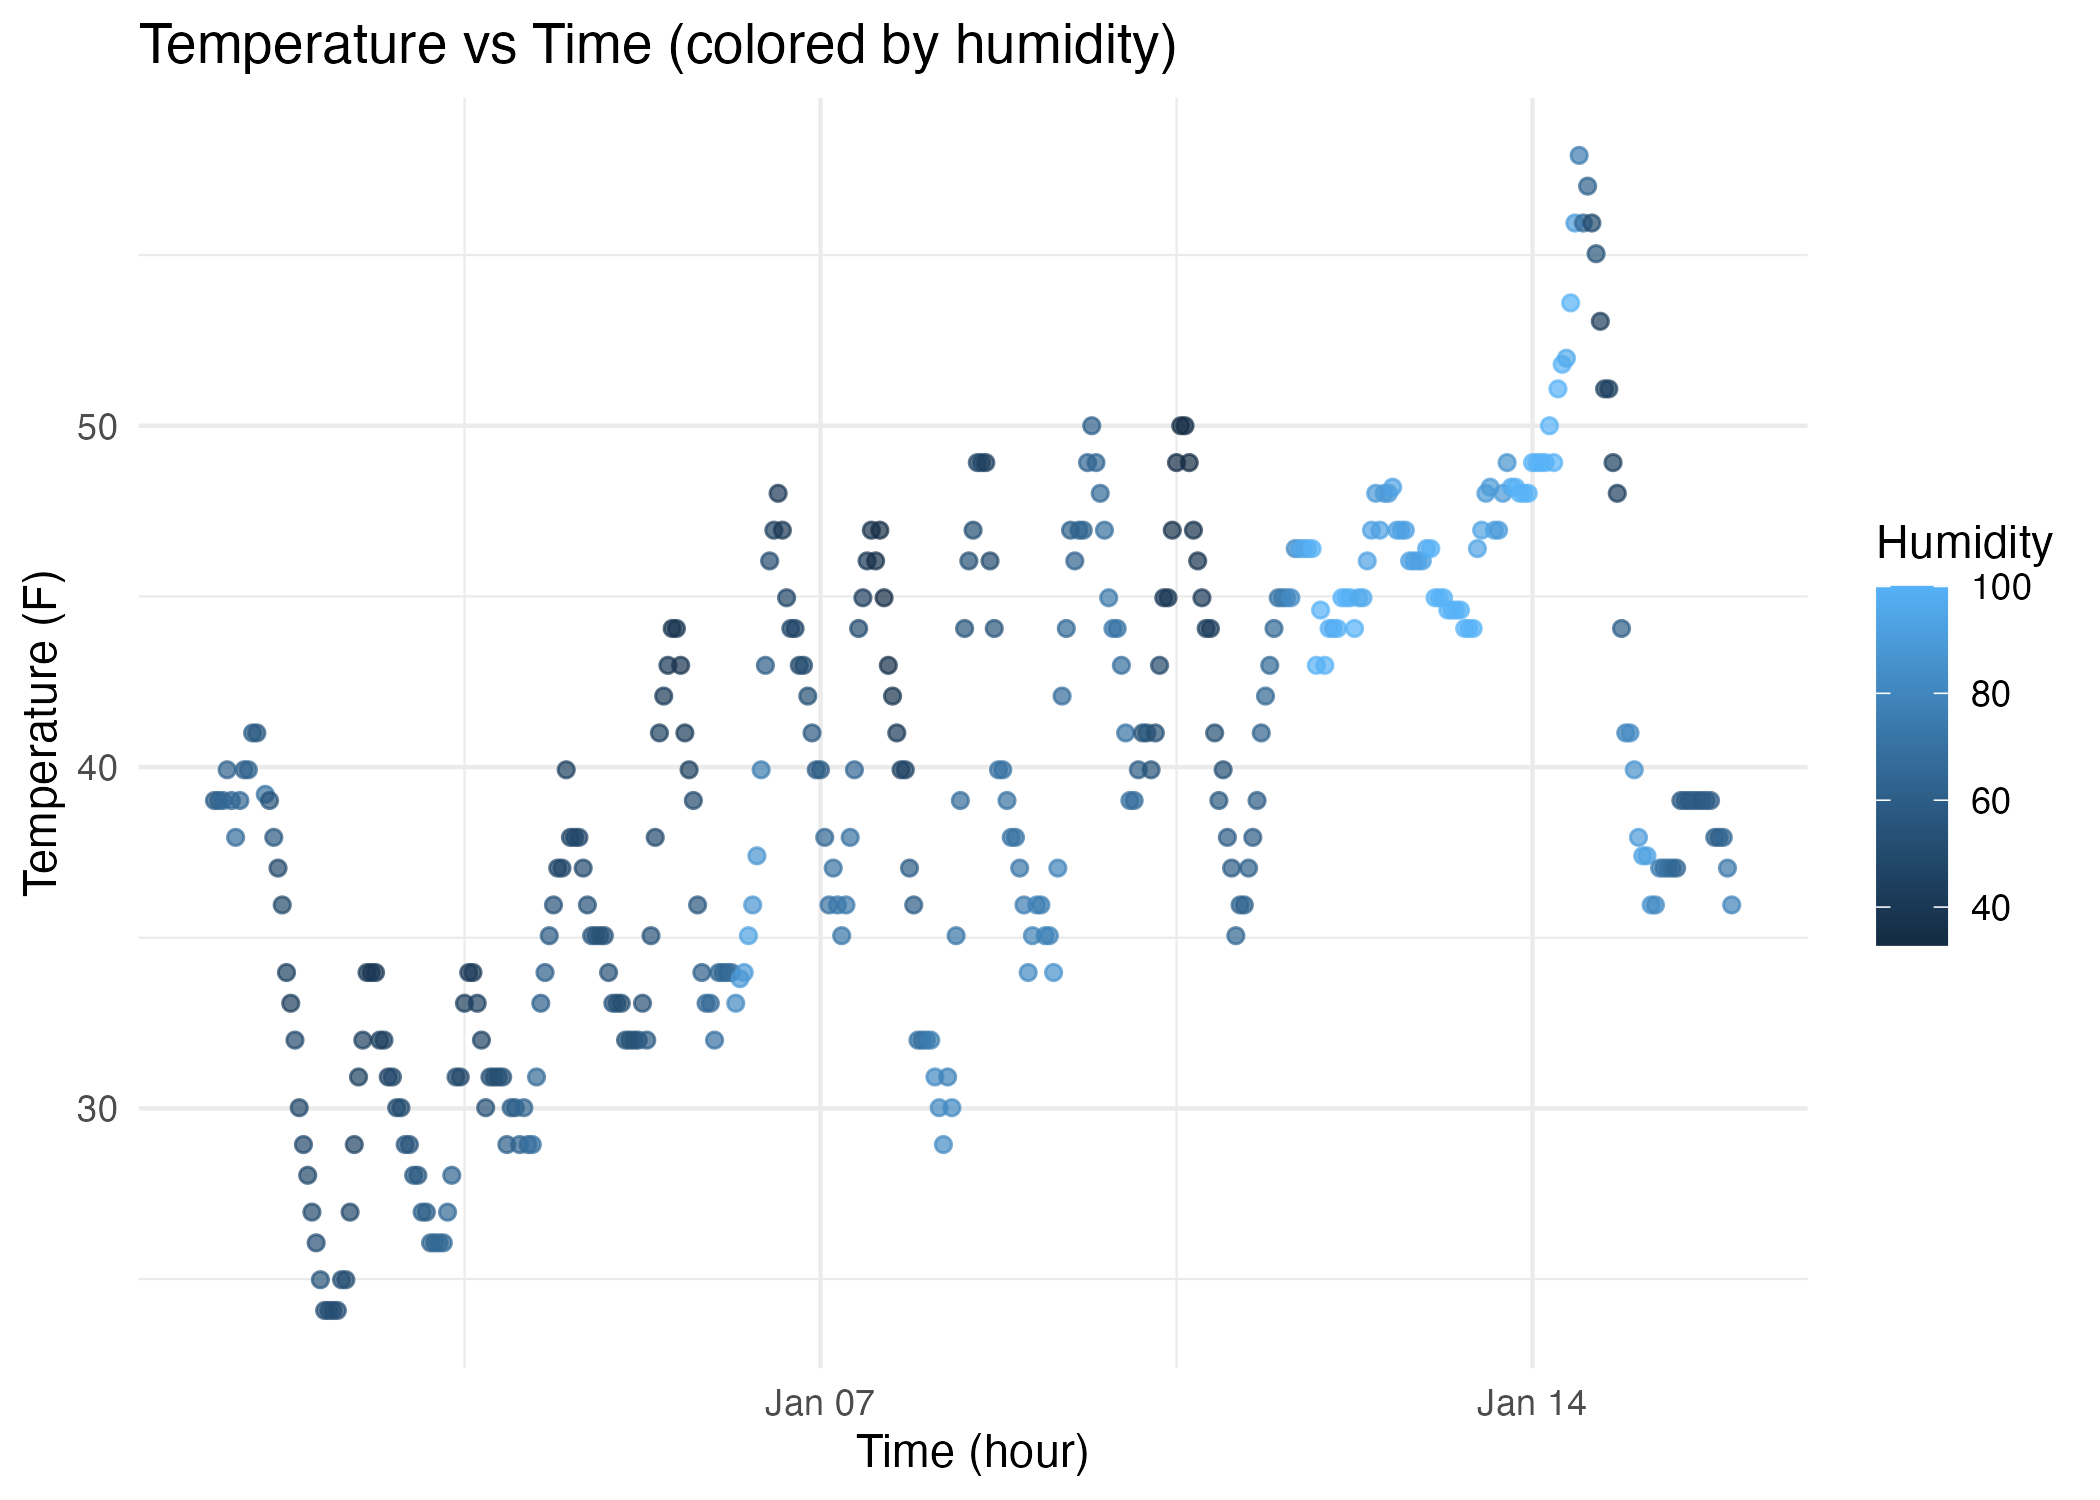
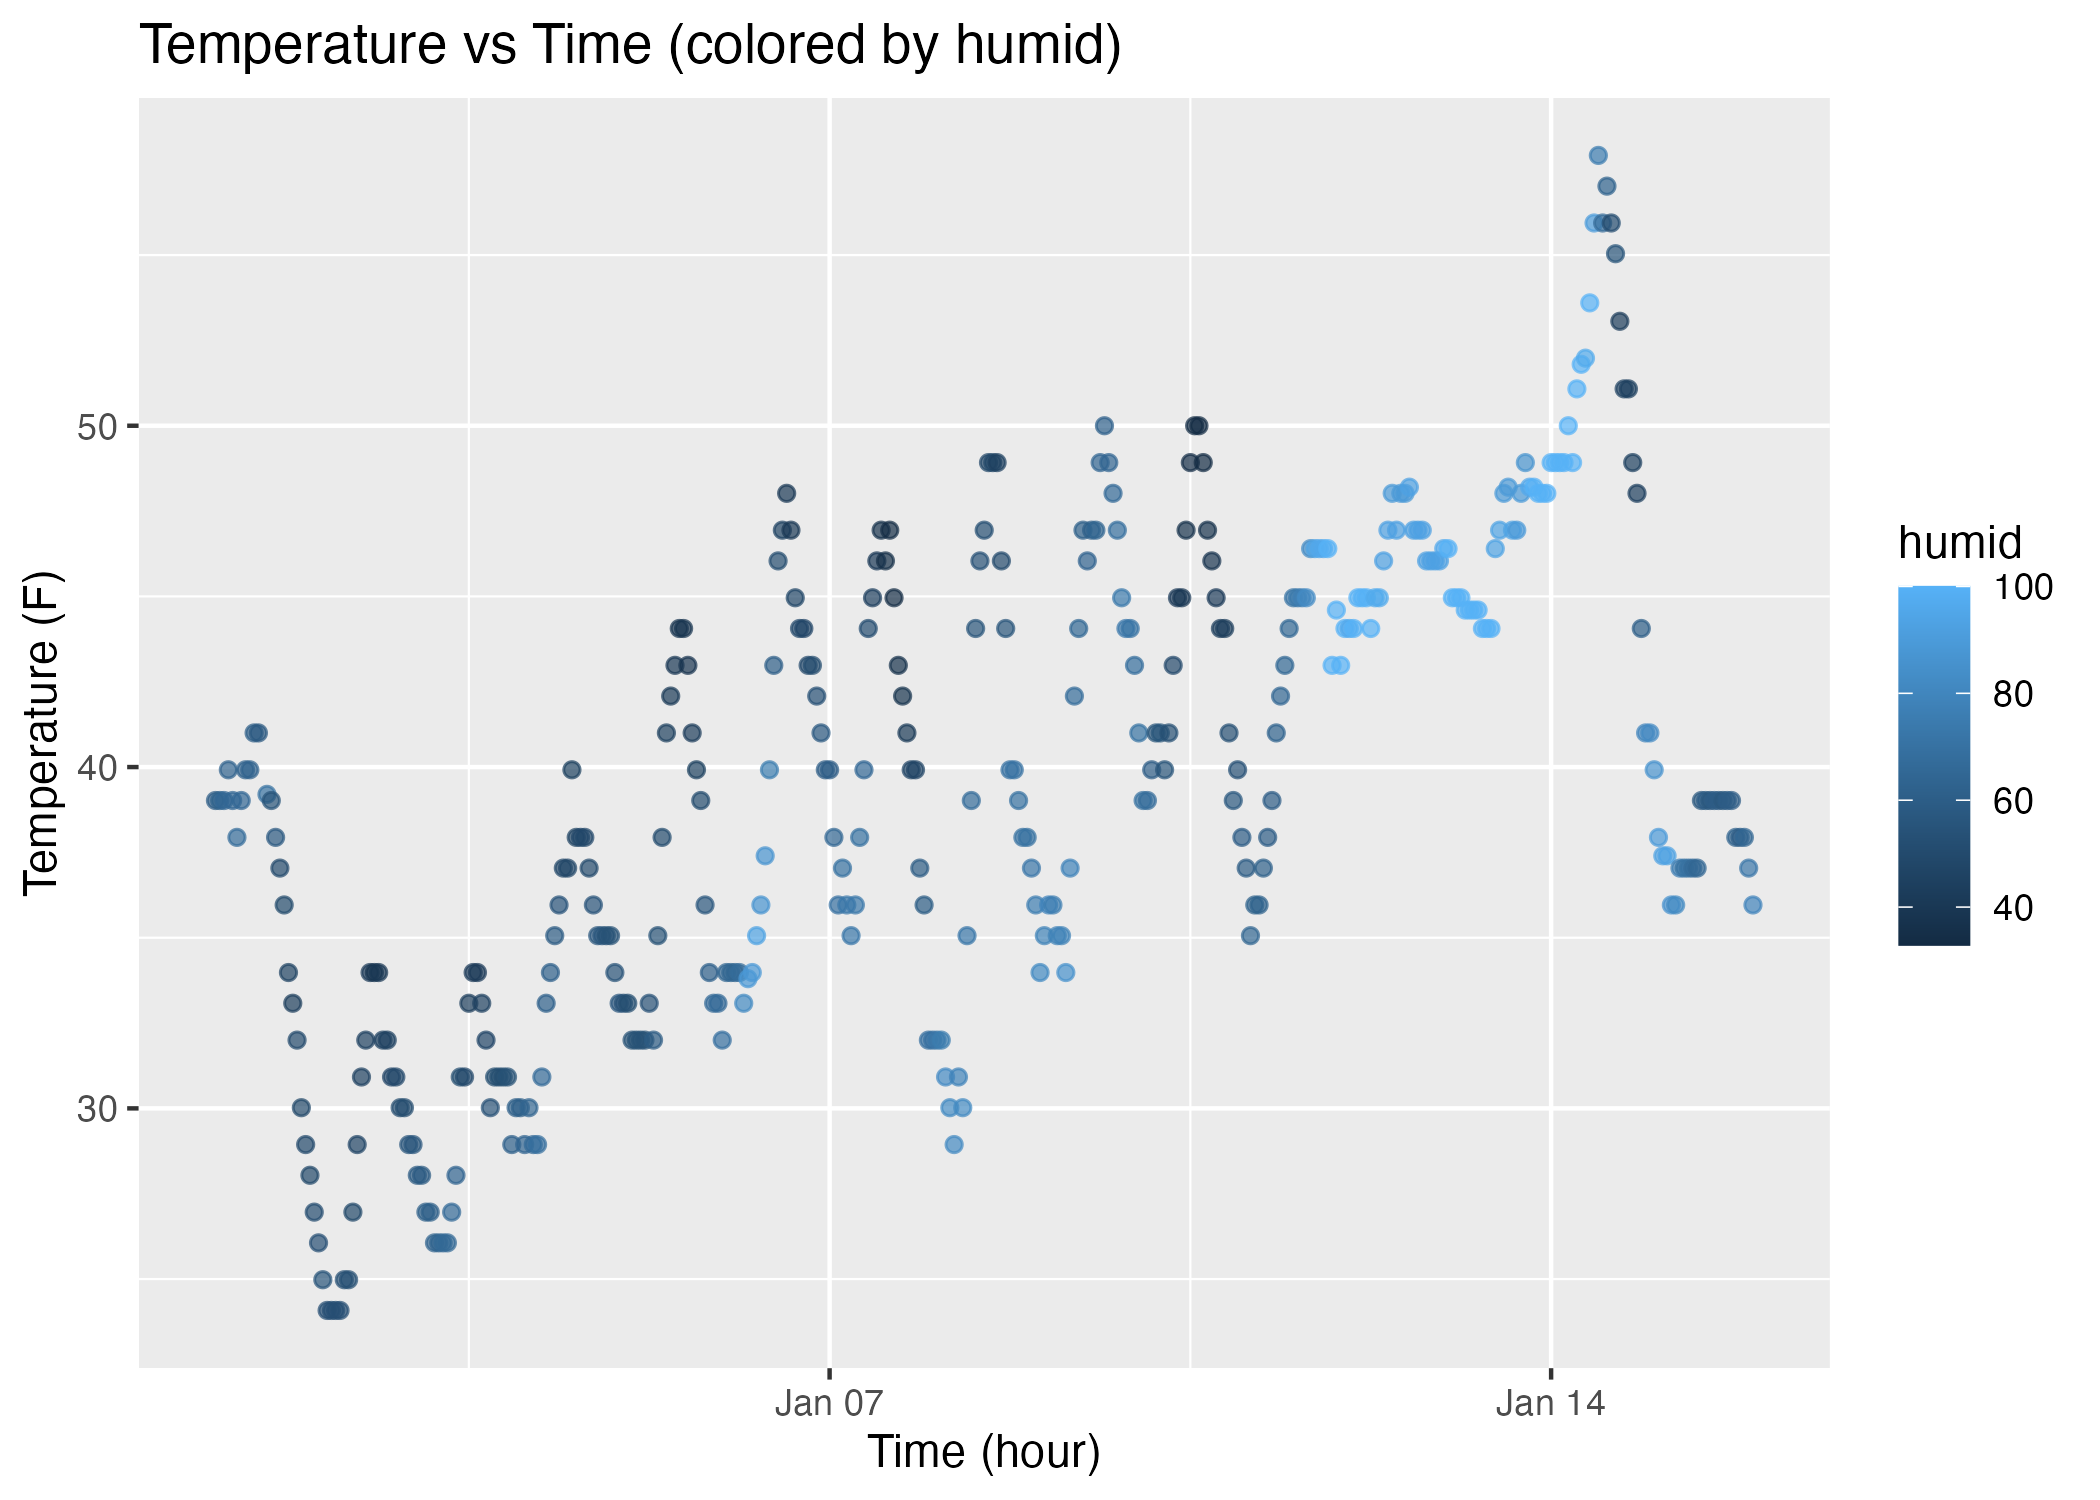
commit-final script

diff --git a/p8105_hw1_jg5037.md b/p8105_hw1_jg5037.md
@@ -1,50 +1,218 @@
 Homework_1_jg5037
 ================
 Jian Gao
-2025-09-14
+2025-09-17
 
 # Problem 1
 
-## Part a
+## loading necessary package and dataset
 
 ``` r
+#loading necessary package and dataset
 library(moderndive)
 library(ggplot2)
+library(tidyverse)
+```
+
+    ## ── Attaching core tidyverse packages ──────────────────────── tidyverse 2.0.0 ──
+    ## ✔ dplyr     1.1.4     ✔ readr     2.1.5
+    ## ✔ forcats   1.0.0     ✔ stringr   1.5.1
+    ## ✔ lubridate 1.9.4     ✔ tibble    3.2.1
+    ## ✔ purrr     1.0.4     ✔ tidyr     1.3.1
+    ## ── Conflicts ────────────────────────────────────────── tidyverse_conflicts() ──
+    ## ✖ dplyr::filter() masks stats::filter()
+    ## ✖ dplyr::lag()    masks stats::lag()
+    ## ℹ Use the conflicted package (<http://conflicted.r-lib.org/>) to force all conflicts to become errors
+
+``` r
 data("early_january_weather")
 ```
 
-The variables included in the dataset are: origin, year, month, day,
-hour, temp, dewp, humid, wind_dir, wind_speed, wind_gust, precip,
-pressure, visib, time_hour.
+## Summary the dataset
 
-Key variables include:  
-- **Temperature (`temp`)**: numeric, with an average of about 39.6 °F  
-- **Humidity (`humid`)**: numeric, ranging from 32.9 to 100  
-- **Time (`time_hour`)**: POSIXct variable recording the observation
-time, ranging from 2013-01-01 01:00:00 to 2013-01-15 23:00:00  
+**The variables included in the dataset are: origin, year, month, day,
+hour, temp, dewp, humid, wind_dir, wind_speed, wind_gust, precip,
+pressure, visib, time_hour.**
+
+Key variables include:
+
+- **Temperature (`temp`)**: numeric, with an average of about 39.5821229
+  °F  
+- **Humidity (`humid`)**: numeric, ranging from 32.86 to 100  
+- **Time (`time_hour`)**: This dataset record the observation time,
+  ranging from 2013-01-01 01:00:00 to 2013-01-15 23:00:00  
 - Other variables include wind speed (`wind_speed`), precipitation
-(`precip`), and visibility (`visib`).
+  (`precip`), and visibility (`visib`).
+
+## Creat the scatterplot of (`temp`) VS (`time_hour`)
 
 ``` r
-library(ggplot2)
-
-p <- ggplot(early_january_weather, aes(x = time_hour, y = temp, color = humid)) +
+# Define the plot
+scatterplot <- ggplot(early_january_weather, aes(x = time_hour, y = temp, color = humid)) +
   geom_point(alpha = 0.7) +
   labs(
-    title = "Temperature vs Time (colored by humidity)",
+    title = "Temperature vs Time (colored by humid)",
     x = "Time (hour)",
     y = "Temperature (F)",
-    color = "Humidity"
-  ) +
-  theme_minimal()
+    color = "humid"
+  )
 
-# show the ggplot
-p
+# Show the ggplot
+scatterplot
 ```
 
-![](p8105_hw1_jg5037_files/figure-gfm/unnamed-chunk-2-1.png)<!-- -->
+![](p8105_hw1_jg5037_files/figure-gfm/creat%20plot-1.png)<!-- -->
 
 ``` r
 # Save to project directory
-ggsave("scatter_temp_time.png", p, width = 7, height = 5)
+ggsave("scatter_temp_time.png", scatterplot, width = 7, height = 5)
 ```
+
+# Problem 2
+
+## Creat the required data_frame
+
+``` r
+set.seed(1) # For repeat(not change the data frame)
+
+df <- tibble(
+  num_var = rnorm(10), # Random select 10 numbers from normal distribution
+  log_var = rnorm(10) > 0, # Show that if the sample are greater than 0
+  char_var = letters[1:10], # Character vector of length 10
+  fac_var = factor(rep(c("A", "B", "C"), length.out = 10)) # Factor vector of length 10, with three different factor levels.
+)
+# Show the data_frame
+df
+```
+
+    ## # A tibble: 10 × 4
+    ##    num_var log_var char_var fac_var
+    ##      <dbl> <lgl>   <chr>    <fct>  
+    ##  1  -0.626 TRUE    a        A      
+    ##  2   0.184 TRUE    b        B      
+    ##  3  -0.836 FALSE   c        C      
+    ##  4   1.60  FALSE   d        A      
+    ##  5   0.330 TRUE    e        B      
+    ##  6  -0.820 FALSE   f        C      
+    ##  7   0.487 FALSE   g        A      
+    ##  8   0.738 TRUE    h        B      
+    ##  9   0.576 TRUE    i        C      
+    ## 10  -0.305 TRUE    j        A
+
+## Testing each veriable to take mean value
+
+``` r
+mean_num <- mean(df %>% pull(num_var))
+mean_num
+```
+
+    ## [1] 0.1322028
+
+``` r
+mean_log <- mean(df %>% pull(log_var))
+mean_log
+```
+
+    ## [1] 0.6
+
+``` r
+mean_char <- mean(df %>% pull(char_var))
+```
+
+    ## Warning in mean.default(df %>% pull(char_var)): argument is not numeric or
+    ## logical: returning NA
+
+``` r
+mean_char
+```
+
+    ## [1] NA
+
+``` r
+mean_fac <- mean(df %>% pull(fac_var))
+```
+
+    ## Warning in mean.default(df %>% pull(fac_var)): argument is not numeric or
+    ## logical: returning NA
+
+``` r
+mean_fac
+```
+
+    ## [1] NA
+
+### Results and Interpretation
+
+*When calculating the mean of each variable:*
+
+- **Numeric (`num_var`)**: mean is 0.1322028 → works as expected since
+  it is numeric data.  
+- **Logical (`log_var`)**: mean is 0.6 → works because `TRUE` is return
+  to 1 and `FALSE` return 0; the mean given by `TRUE` values.  
+- **Character (`char_var`)**: Returns `NA` with a warning → characters
+  are not numeric variables can not be calculated mean.  
+- **Factor (`fac_var`)**: Returns `NA` with a warning : factors are
+  categorical variables and cannot be directly averaged.
+
+**Summary:**  
+Only numeric and logical variables can be meaningfully averaged.
+Character and factor variables can not direct computation of the mean.
+
+## Change the non-working types variables by `as.numeric()`
+
+``` r
+new_log_var <- df %>%
+  pull(log_var) %>%
+  as.numeric()
+new_log_var
+```
+
+    ##  [1] 1 1 0 0 1 0 0 1 1 1
+
+``` r
+new_char_var <- df %>%
+  pull(char_var) %>%
+  as.numeric()
+```
+
+    ## Warning in df %>% pull(char_var) %>% as.numeric(): NAs introduced by coercion
+
+``` r
+new_char_var
+```
+
+    ##  [1] NA NA NA NA NA NA NA NA NA NA
+
+``` r
+new_fac_var <- df %>%
+  pull(fac_var) %>%
+  as.numeric()
+new_fac_var
+```
+
+    ##  [1] 1 2 3 1 2 3 1 2 3 1
+
+### Results and Interpretation
+
+- **Logical to Numeric**  
+  `TRUE` is return to 1 and `FALSE` return to 0.  
+  The mean gives the proportion of `TRUE` values so that the logical
+  variables can be averaged.
+
+- **Character to Numeric**  
+  Characters such as `"a"`, `"b"`, `"c"` cannot be directly converted.  
+  The result is `NA` with a warning (`NAs introduced by coercion`), so
+  their mean cannot be computed.
+
+- **Factor to Numeric**  
+  Factors are internally stored as integer codes corresponding to their
+  levels (e.g., level A = 1, level B = 2, level C = 3).  
+  Conversion returns these values(levels), so technically a mean can be
+  calculated **Summary:**  
+
+- Numeric and logical variables can be meaningfully averaged.  
+
+- Character variables convert to `NA` and cannot be averaged.  
+
+- Factor variables convert to integer codes, but their mean has no
+  real-world meaning.
